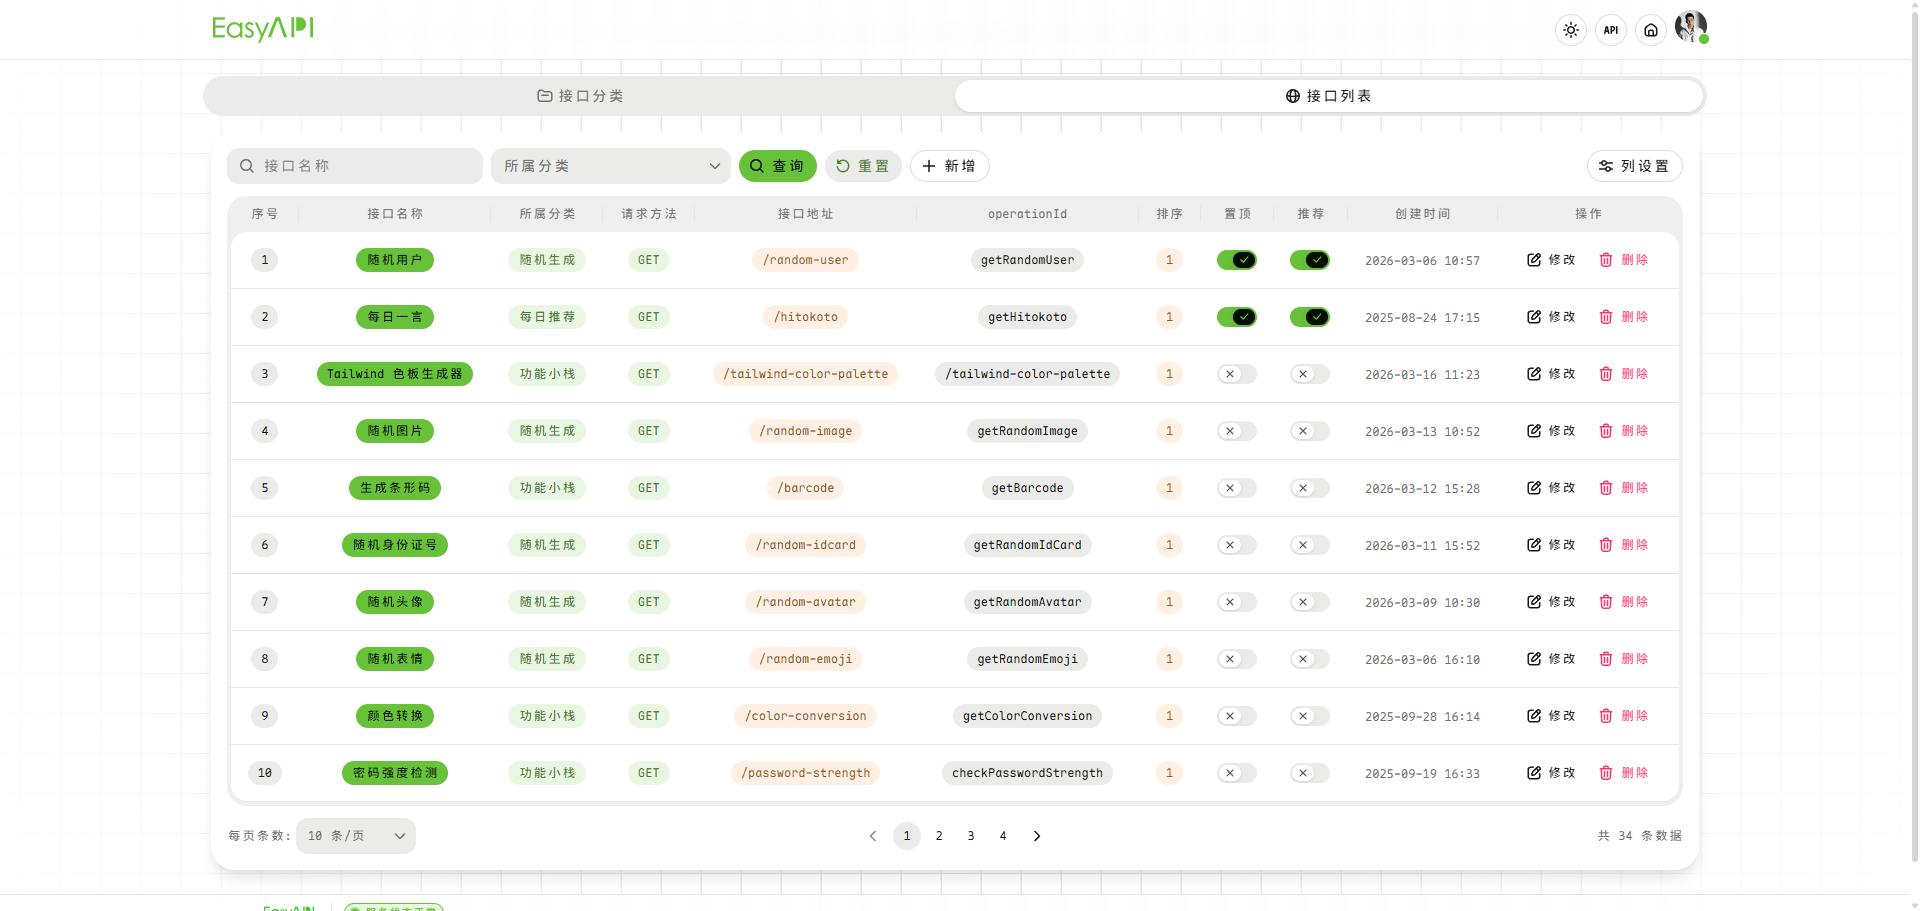
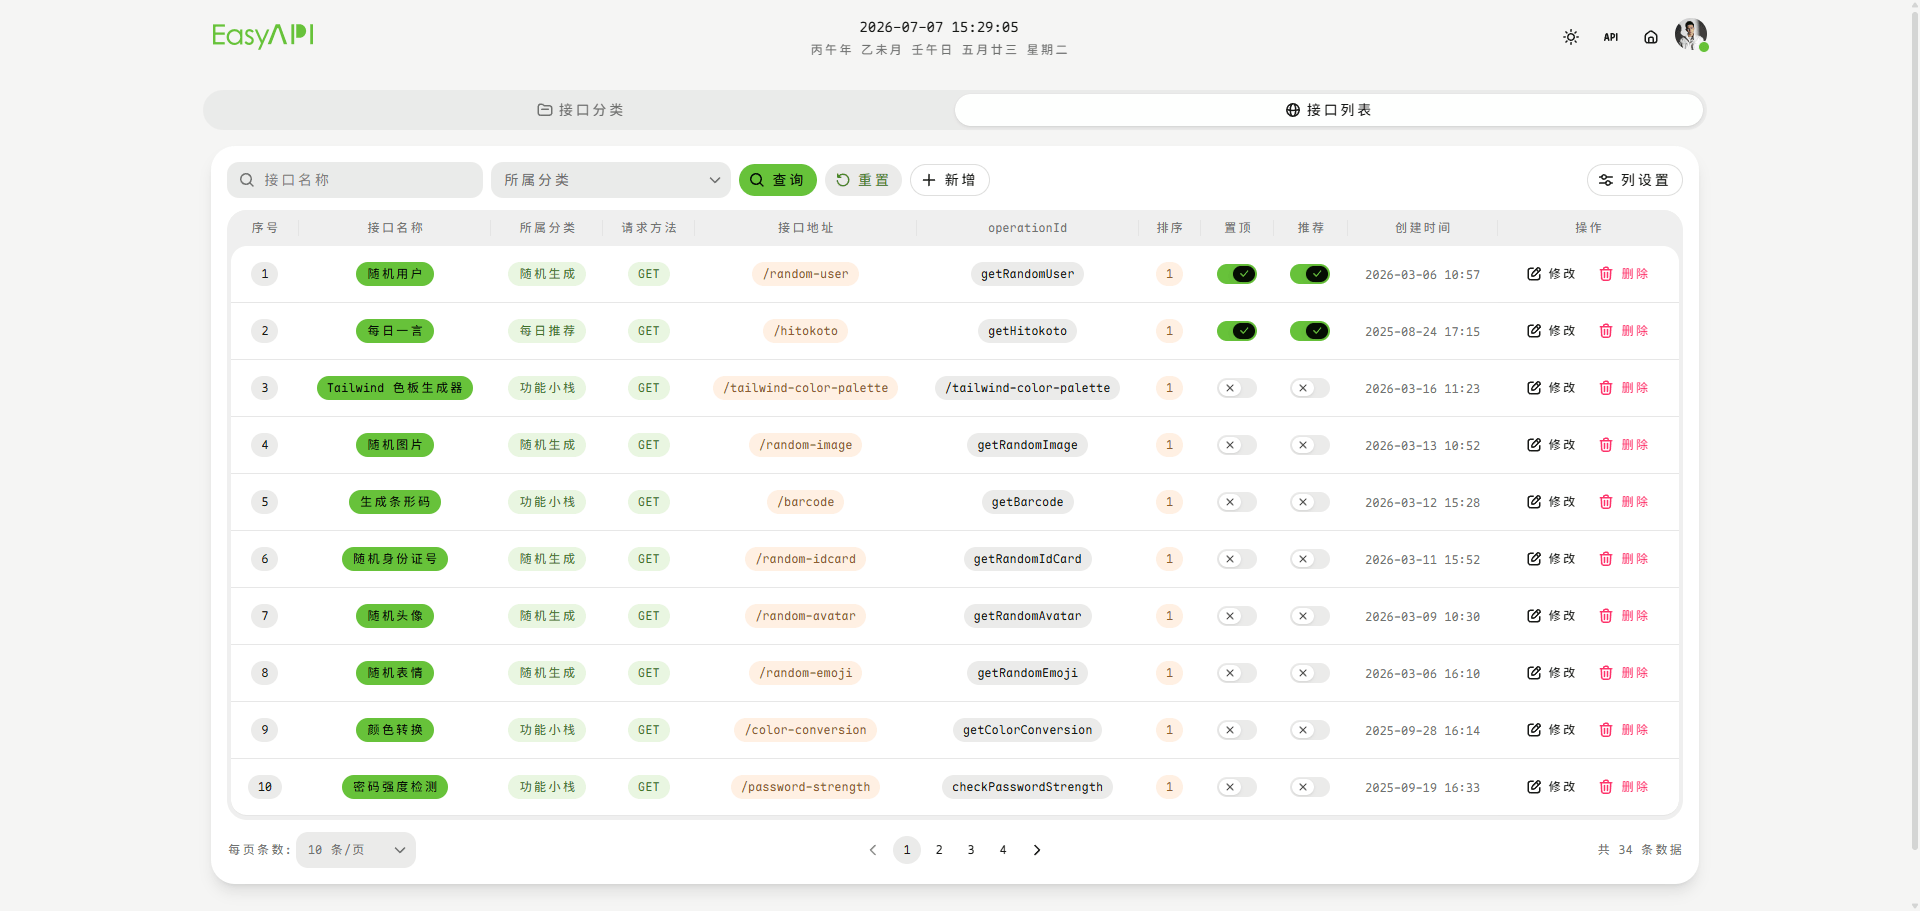
feat: 更新 demo 截图，添加 .env.example 文件

diff --git a/README.md b/README.md
@@ -79,7 +79,7 @@ NEXT_PUBLIC_APP_DESC = '基于 Next.js 构建的高性能 API 聚合平台，统
 # 项目关键词
 NEXT_PUBLIC_APP_KEYWORDS = 'Easy Api,API聚合,API管理,接口聚合平台,Next.js API,Next.js聚合,API网关,微服务网关,接口代理,请求转发,数据缓存,RESTful API,第三方API集成,Serverless,Next.js 16,TypeScript,API路由,后端即服务,BaaS,低代码平台,开发工具'
 # 项目域名
-NEXT_PUBLIC_APP_URL = 'http://localhost:5173'
+NEXT_PUBLIC_APP_URL = 'http://localhost:3000'
 # 版权
 NEXT_PUBLIC_COPYRIGHT = '白雾茫茫丶'
 # 网站ICP
